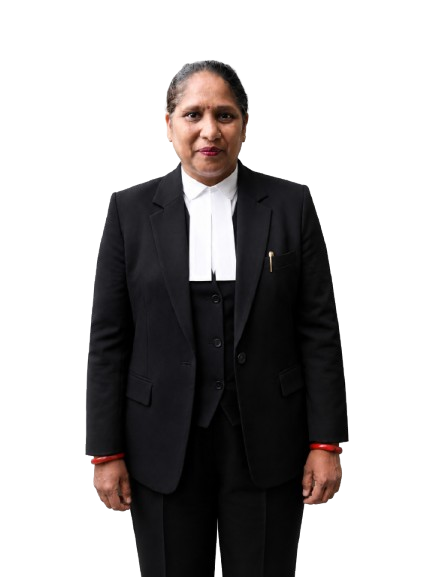
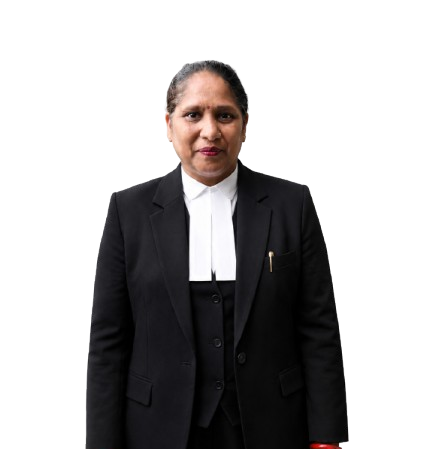
feat: implement responsive Footer component and styling for Home page hero section

diff --git a/src/components/Footer.jsx b/src/components/Footer.jsx
@@ -1,6 +1,6 @@
 import React from 'react';
 import { NavLink } from 'react-router-dom';
-import { Mail, Phone, MapPin, Facebook, Instagram, Linkedin, Twitter } from 'lucide-react';
+import { Mail, Phone, MapPin } from 'lucide-react';
 import styles from '../styles/Footer.module.css';
 
 const Footer = () => {
@@ -8,20 +8,7 @@ const Footer = () => {
     <footer className={styles.footer}>
       <div className={styles.footerContainer}>
         
-        {/* Column 1 - CTA */}
-        <div className={styles.ctaCol}>
-          <h2 className={styles.ctaTitle}>
-            Do You Like <span className={styles.highlight}>What You See?</span>
-          </h2>
-          <p className={styles.ctaDesc}>
-            Providing expert legal representation and strategic counsel to protect your rights and future. Dedicated to your success through integrity and excellence.
-          </p>
-          <NavLink to="/contact" className={styles.workTogether}>
-            Let's work together &rarr;
-          </NavLink>
-        </div>
-
-        {/* Column 2 - Quick Links */}
+        {/* Column 1 - Quick Links */}
         <div className={styles.linkCol}>
           <h3 className={styles.colTitle}>Quick Links</h3>
           <ul className={styles.linkList}>
@@ -34,7 +21,7 @@ const Footer = () => {
           </ul>
         </div>
 
-        {/* Column 4 - Connect Me */}
+        {/* Column 2 - Connect Me */}
         <div className={styles.connectCol}>
           <h3 className={styles.colTitle}>Connect Me</h3>
           <div className={styles.contactInfo}>
@@ -50,18 +37,24 @@ const Footer = () => {
               <MapPin size={18} className={styles.icon} />
               <p className={styles.infoText}>
                 Adv. Jyoti Durugkar<br />
-                Gondia,<br />
-                Maharashtra, India
+                Marar Toli, Laxmi Nagar,<br />
+                Gondia, Maharashtra 441601
               </p>
             </div>
           </div>
-          
-          <div className={styles.socialRow}>
-            <div className={styles.socialIcon}><Facebook size={18} /></div>
-            <div className={styles.socialIcon}><Instagram size={18} /></div>
-            <div className={styles.socialIcon}><Linkedin size={18} /></div>
-            <div className={styles.socialIcon}><Twitter size={18} /></div>
-          </div>
+        </div>
+
+        {/* Column 3 - CTA */}
+        <div className={styles.ctaCol}>
+          <h2 className={styles.ctaTitle}>
+            Do You Like <span className={styles.highlight}>What You See?</span>
+          </h2>
+          <p className={styles.ctaDesc}>
+            Providing expert legal representation and strategic counsel to protect your rights and future. Dedicated to your success through integrity and excellence.
+          </p>
+          <NavLink to="/contact" className={styles.workTogether}>
+            Let's work together &rarr;
+          </NavLink>
         </div>
 
       </div>

diff --git a/src/styles/Home.module.css b/src/styles/Home.module.css
@@ -5,7 +5,8 @@
   background: radial-gradient(ellipse at 50% 30%, #204153 0%, #0d1b24 100%);
   color: #FFFFFF;
   overflow-x: hidden;
-  padding-top: 80px; /* Space for Navbar */
+  padding-top: 80px;
+  /* Space for Navbar */
   font-family: inherit;
   display: flex;
   flex-direction: column;
@@ -71,7 +72,8 @@
   letter-spacing: -1.5px;
   margin: 0;
   margin-top: 60px;
-  white-space: nowrap; /* Prevent title from breaking and being clipped */
+  white-space: nowrap;
+  /* Prevent title from breaking and being clipped */
 }
 
 .titleHighlight {
@@ -92,12 +94,11 @@
 
 .lawyerImg {
   position: absolute;
-  bottom: -40px;
-  height: 115%;
+  bottom: 0px;
+  height: 112%;
   object-fit: contain;
-  filter: drop-shadow(0 20px 30px rgba(0,0,0,0.5));
-  mask-image: linear-gradient(to top, transparent 5%, black 20%);
-  -webkit-mask-image: linear-gradient(to top, transparent 0%, black 15%);
+  filter: drop-shadow(0 20px 30px rgba(0, 0, 0, 0.5));
+  clip-path: inset(0 0 145px 0);
   transform: translateX(-60px);
 }
 
@@ -144,11 +145,13 @@
   justify-content: center;
   font-weight: bold;
 }
+
 .google {
   color: #DB4437;
   font-size: 1.2rem;
   font-family: 'Arial', sans-serif;
 }
+
 .facebook {
   background: #1877F2;
   color: #FFF;
@@ -171,6 +174,7 @@
   gap: 2px;
   margin-bottom: 4px;
 }
+
 .stars span {
   color: white;
   margin-left: 6px;
@@ -214,7 +218,7 @@
 }
 
 .arrowIcon {
-  background: rgba(255,255,255,0.4);
+  background: rgba(255, 255, 255, 0.4);
   padding: 4px;
   border-radius: 50%;
   display: flex;
@@ -226,16 +230,16 @@
 /* Bottom Stats */
 .statsContainer {
   position: relative;
-  z-index: 1;
+  z-index: 10;
   width: 100%;
   max-width: 1400px;
   margin: 0 auto;
   padding: 40px;
-  border-top: 1px solid rgba(255,255,255,0.1);
+  border-top: 1px solid rgba(255, 255, 255, 0.1);
   display: flex;
   justify-content: space-between;
   align-items: center;
-  margin-top: -80px;
+  margin-top: -140px;
 }
 
 .statItem {
@@ -271,8 +275,13 @@
 }
 
 @media (max-width: 1200px) {
-  .title { font-size: 3.5rem; }
-  .lawyerImg { height: 90%; }
+  .title {
+    font-size: 3.5rem;
+  }
+
+  .lawyerImg {
+    height: 90%;
+  }
 }
 
 @media (max-width: 900px) {
@@ -282,31 +291,38 @@
     gap: 40px;
     padding-top: 40px;
   }
+
   .leftCol {
     align-items: center;
     max-width: 100%;
     display: flex;
     flex-direction: column;
   }
+
   .rightCol {
     align-items: center;
     max-width: 100%;
   }
+
   .ctaContainer {
     justify-content: center;
   }
+
   .lawyerImg {
     position: relative;
     bottom: 0;
     height: 400px;
     transform: none;
   }
+
   .centerCol {
     height: auto;
   }
+
   .title {
     font-size: 3.2rem;
   }
+
   .statsContainer {
     flex-wrap: wrap;
     gap: 30px;
@@ -413,8 +429,8 @@
   .aboutNewContainer {
     flex-direction: column;
   }
+
   .aboutTitle {
     font-size: 3rem;
   }
 }
-

diff --git a/src/styles/Footer.module.css b/src/styles/Footer.module.css
@@ -13,7 +13,7 @@
   max-width: 1400px;
   margin: 0 auto;
   display: grid;
-  grid-template-columns: 1.5fr 1fr 1fr 1.5fr;
+  grid-template-columns: 1fr 1fr 1.5fr;
   gap: 60px;
 }
 
